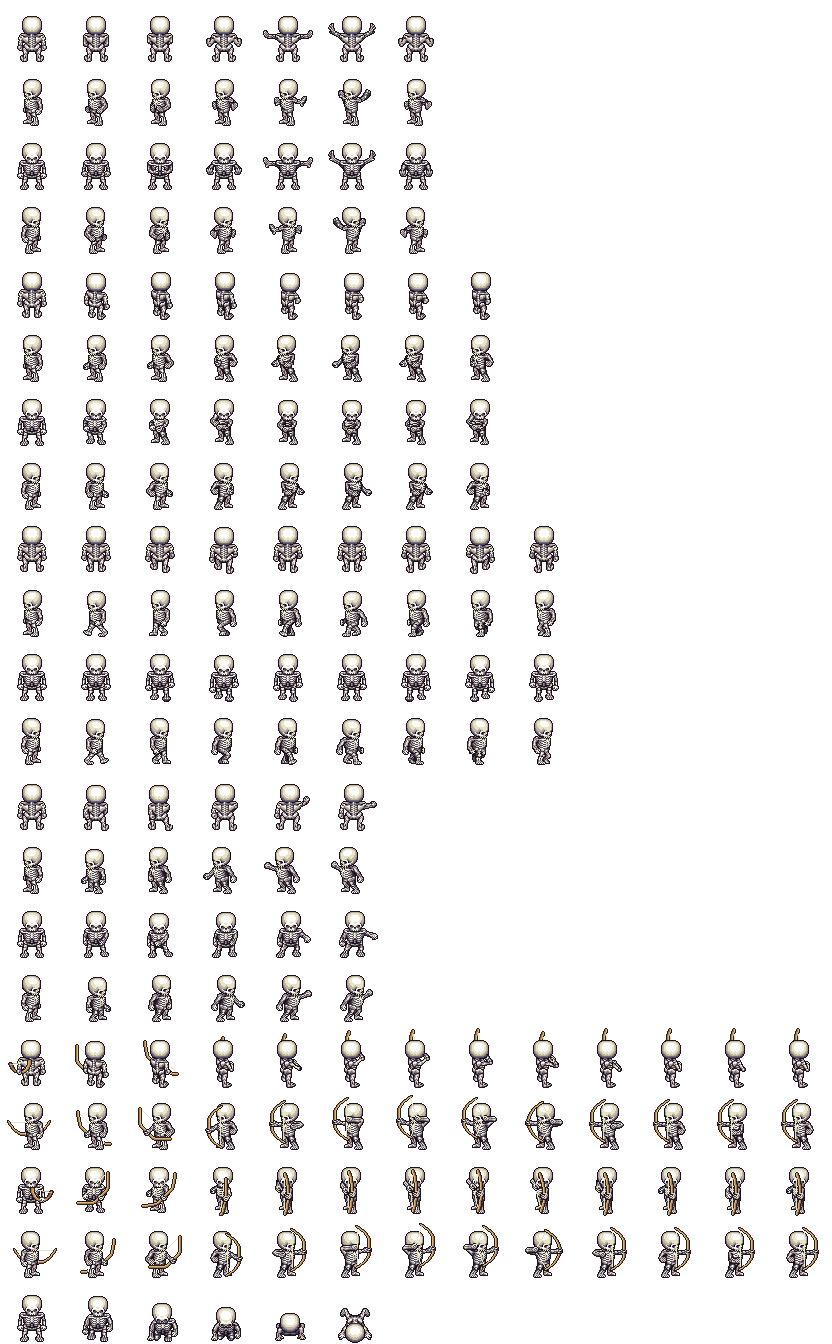
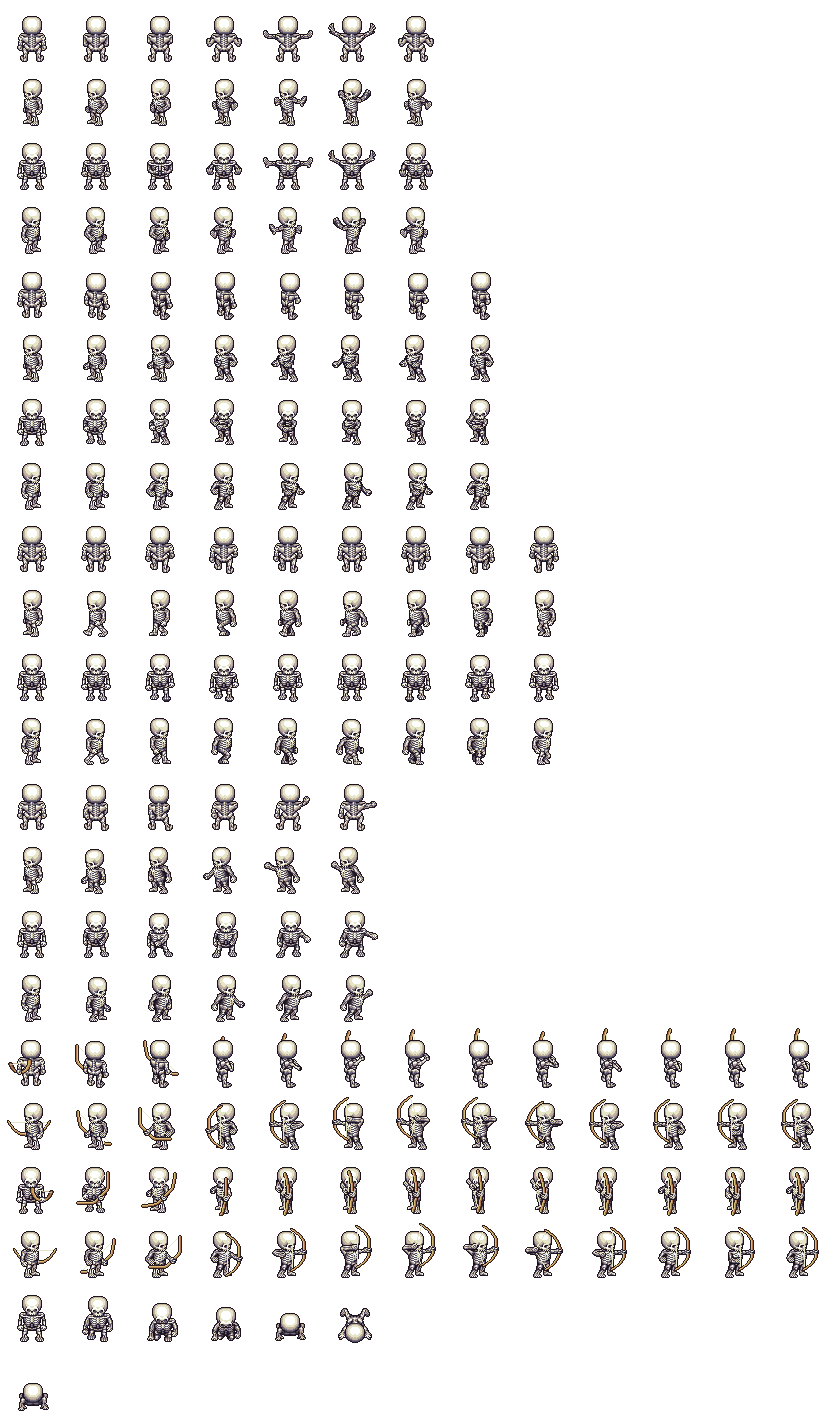
Battle looks quite a bit better

diff --git a/GameEngine.js b/GameEngine.js
@@ -416,7 +416,7 @@ GameEngine.prototype.battleOver = function (game) {
     for (var i = 0 ; i < game.fiends.length; i++) {
         net_health_1 += game.fiends[i].stats.health;
     }
-        net_health_1 = game.fiends[0].stats.health;
+        //net_health_1 = game.fiends[0].stats.health;
         if (net_health_1 <= 0) {
             game.canControl = false;
             //players[1].game.animation_queue.push(new Event(players[1], players[1].animations.death));
@@ -457,14 +457,14 @@ GameEngine.prototype.removeFighters = function(player)
     {
         if(this.fight_queue[i].id === player.id)
         {
-            this.fight_queue.splice(1, i);
+            this.fight_queue.splice(i, 1);
         }
     }
-    for (var i = 0; i < this.animation_queue.length; i++) {
-        if (this.animation_queue[i].entity.id === player.id) {
-            this.animation_queue.splice(1, i);
-        }
-    }
+    //for (var i = 0; i < this.animation_queue.length; i++) {
+    //    if (this.animation_queue[i].entity.id === player.id) {
+    //      //  this.animation_queue.splice(i, 1);
+    //    }
+    //}
 }
 
 GameEngine.prototype.setNextFighter = function()
@@ -541,6 +541,7 @@ Entity = function (game, x, y, spriteSheet, animations, stats) {
     this.spriteSheet = spriteSheet;
     this.stats = stats;
     this.curr_anim = null;
+    this.is_turn = false;
     this.id = Math.random() * Math.random();
     if (animations) {
         this.animations = animations;
@@ -610,10 +611,19 @@ Entity.prototype.doDamage = function(players)
     players[1].stats.health = players[1].stats.health - ((players[0].stats.attack / players[1].stats.defense) * (Math.random() * 10));
     if(players[1].stats.health <= 0)
     {
-        players[1].game.animation_queue.push(new Event(players[1], players[1].animations.death));
+        players[1].stats.health = 0;
         players[1].game.removeFighters(players[1]);
+        players[1].game.animation_queue.push(new Event(players[1], players[1].animations.death, 1000));
         players[1].game.battleOver(players[1].game);
+
     }
+    else {
+        players[1].game.animation_queue.push(new Event(players[1], players[1].stop_move_animation, 1000));
+    }
+    
+    players[0].game.setNextFighter();
+    players[0].game.fight_queue[0].is_turn = true;
+
 }
 Entity.prototype.draw = function (context) {
     // code for NPCs and Enemies. 
@@ -966,7 +976,7 @@ Warrior.prototype.setAction = function(action, target)
             this.game.animation_queue.push(new Event(this, this.animations.destroy));
             this.game.animation_queue.push(new Event(this, this.stop_move_animation));
             target[0].game.animation_queue.push(new Event(target[0], target[0].animations.hit, 0, this.doDamage, [this, target[0]]));
-            target[0].game.animation_queue.push(new Event(target[0], target[0].stop_move_animation, 1000));
+            
             break;
         case "Sweep":
             this.game.animation_queue.push(new Event(this, this.animations.special));
@@ -1021,10 +1031,11 @@ Enemy.prototype.draw = function (context) {
 }
 
 Enemy.prototype.update = function () {
-    if(this.game.fight_queue[0].id === this.id)
+    if(this.game.fight_queue[0].id === this.id && this.is_turn)
     {
         this.setAction("Single", this.game.entities);
-        this.game.setNextFighter();
+        this.is_turn = false;
+        //this.game.setNextFighter();
     }
 }
 
@@ -1038,7 +1049,7 @@ Enemy.prototype.setAction = function (action, target) {
             this.game.animation_queue.push(new Event(this, this.animations.destroy));
             this.game.animation_queue.push(new Event(this, this.stop_move_animation));
             target[0].game.animation_queue.push(new Event(target[0], target[0].animations.hit, 0, this.doDamage, [this, target[0]]));
-            target[0].game.animation_queue.push(new Event(target[0], target[0].stop_move_animation, 1000));
+            //target[0].game.animation_queue.push(new Event(target[0], target[0].stop_move_animation, 1000));
             break;
         case "Sweep":
             this.game.animation_queue.push(new Event(this, this.animations.special));
@@ -1368,11 +1379,11 @@ Environment.prototype.initSpriteSets = function()
         new Animation(skeleton_sprites, 0, 11, 64, 64, 0.05, 9, true, false),
         new Animation(skeleton_sprites, 0, 19, 64, 64, 0.05, 13, true, false),
         new Animation(skeleton_sprites, 0, 20, 64, 64, 0.07, 5, true, false),
-        new Animation(skeleton_sprites, 6, 20, 64, 64, .1, 1, true, false)));
+        new Animation(skeleton_sprites, 0, 21, 64, 64, .1, 1, true, false)));
     this.fiends.push(new SpriteSet(null, null, null, new Animation(malboro_sprites, 0, 0, 82, 91, .15, 3, true, false),
         new Animation(malboro_sprites, 0, 1, 82, 91, .12, 6, true, false),
         new Animation(malboro_sprites, 0, 2, 82, 91, .15, 3, true, false),
-        new Animation(malboro_sprites, 0, 2, 82, 91, .08, 6, true, false)
+        new Animation(malboro_sprites, 0, 3, 82, 91, .08, 1, true, false)
         ));
 }
 
@@ -1551,11 +1562,11 @@ BattleMenu.prototype.init = function () {
             if (that.game.canControl) {
                 if (that.game.fight_queue[0]) {
                     that.game.fight_queue[0].setAction("Single", [that.target_queue[0]]);
-                    that.game.setNextFighter();
+                    //that.game.setNextFighter();
                     
                 }
             }
-            //that.attack_queue.push(that.attack_queue.shift());
+            that.target_queue.push(that.target_queue.shift());
             that.changeTabIndex("attack", false);
             that.changeTabIndex("main", true);
             window.setTimeout(that.attack.focus(), 0);
